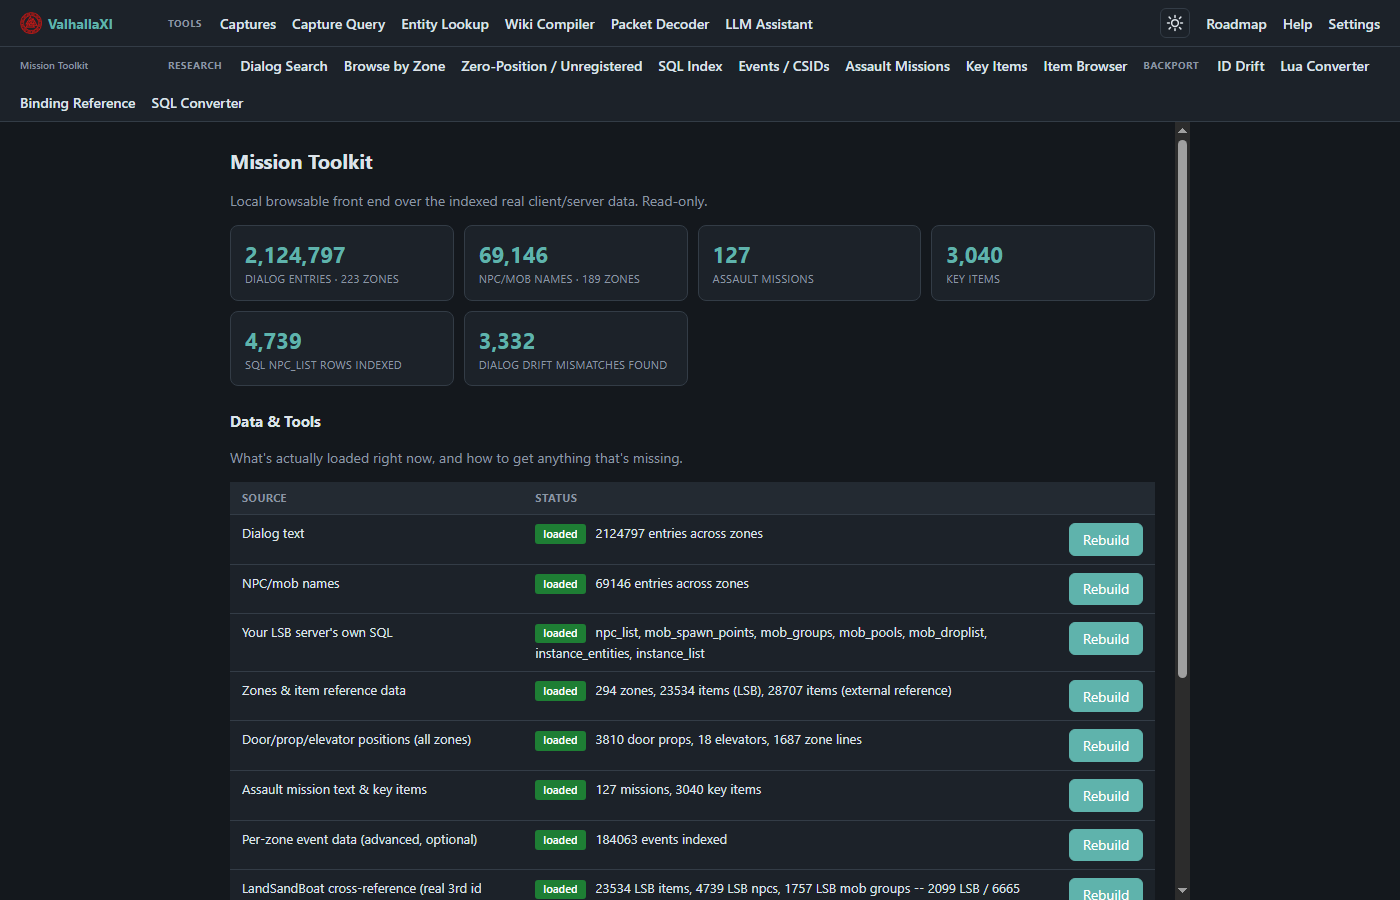
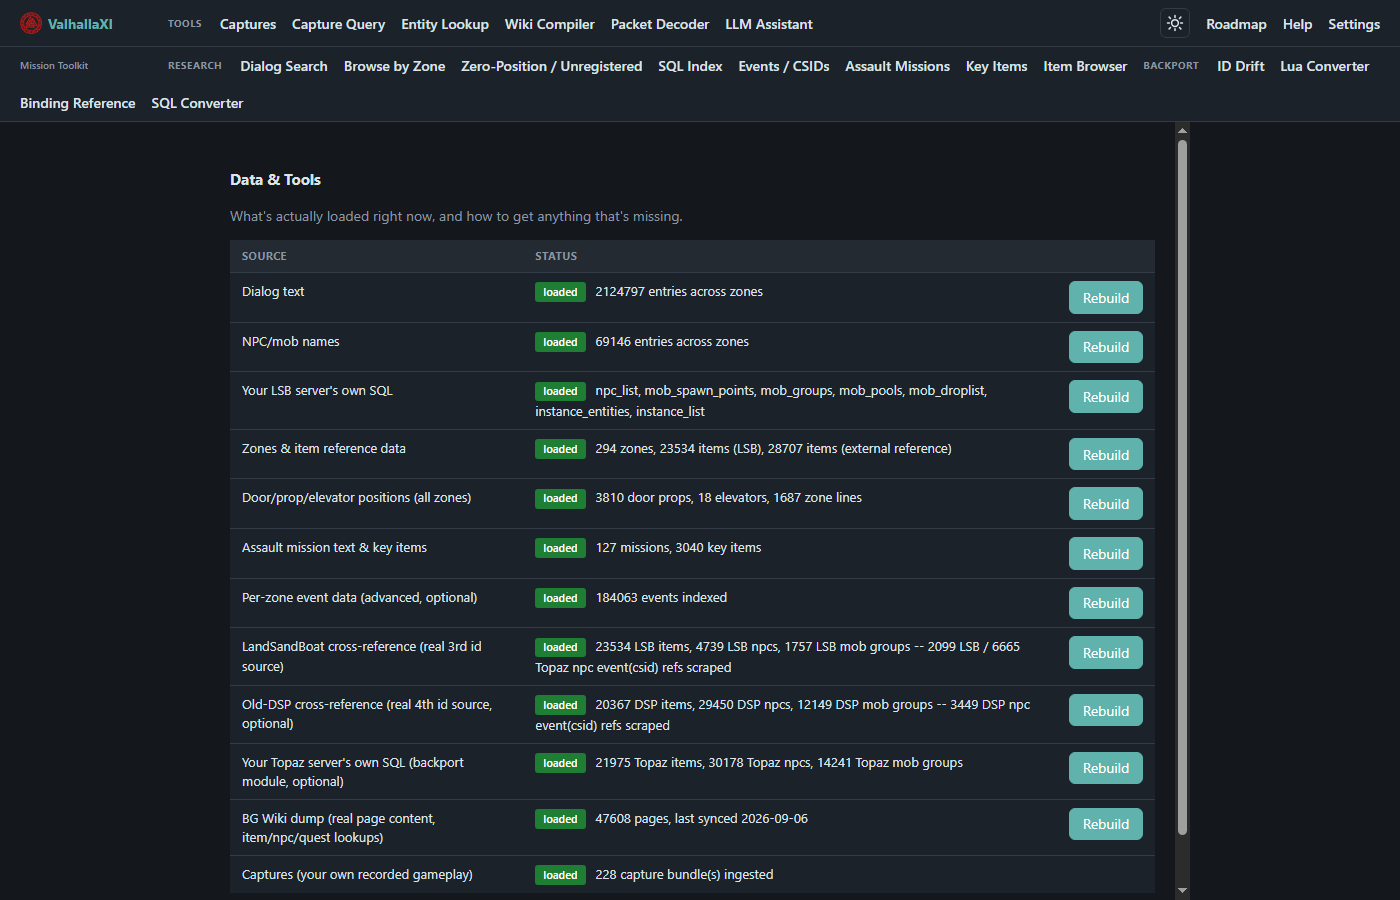
Remove redundant homepage header and stat blocks
The "Mission Toolkit / Local browsable front end..." header and the 6 stat cards above it
duplicated what the Data & Tools table below already shows in more detail -- removed both, page
now goes straight from nav to Data & Tools. Homepage screenshot refreshed to match.

Changed region(s): [[0.1536, 0.1556, 0.86, 1.0], [0.6757, 0.2489, 0.7371, 0.3111]]

diff --git a/gui/templates/home.html b/gui/templates/home.html
@@ -1,9 +1,6 @@
 {% extends "base.html" %}
 {% block title %}Mission Toolkit{% endblock %}
 {% block content %}
-<h1>Mission Toolkit</h1>
-<p class="muted">Local browsable front end over the indexed real client/server data. Read-only.</p>
-
 {% if rebuilt %}
 <div class="flash {{ 'flash-ok' if rebuilt_ok else 'flash-error' }}">
   {% if rebuilt_ok %}
@@ -13,15 +10,6 @@
   {% endif %}
 </div>
 {% endif %}
-
-<div class="stats">
-  <div class="stat"><div class="n">{{ "{:,}".format(stats.dialog_entries) }}</div><div class="l">dialog entries · {{ stats.dialog_zones }} zones</div></div>
-  <a class="stat" href="/entity" style="text-decoration:none; color:inherit;"><div class="n">{{ "{:,}".format(stats.npc_entries) }}</div><div class="l">NPC/mob names · {{ stats.npc_zones }} zones</div></a>
-  <div class="stat"><div class="n">{{ stats.missions }}</div><div class="l">Assault missions</div></div>
-  <div class="stat"><div class="n">{{ "{:,}".format(stats.keyitems) }}</div><div class="l">key items</div></div>
-  <div class="stat"><div class="n">{{ "{:,}".format(stats.sql_npc_list) }}</div><div class="l">sql npc_list rows indexed</div></div>
-  <div class="stat"><div class="n">{{ "{:,}".format(stats.drift_mismatches) }}</div><div class="l">dialog drift mismatches found</div></div>
-</div>
 
 <h2>Data &amp; Tools</h2>
 <p class="muted">What's actually loaded right now, and how to get anything that's missing.</p>
